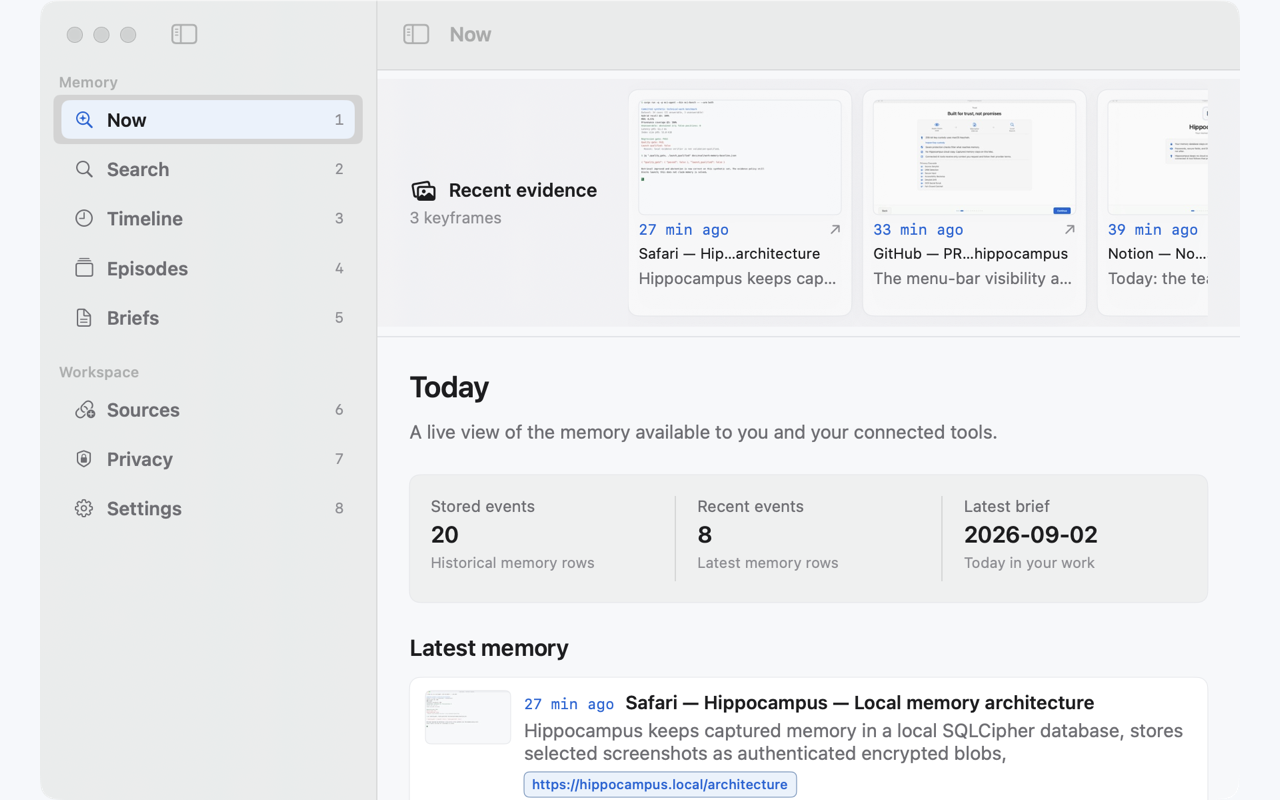
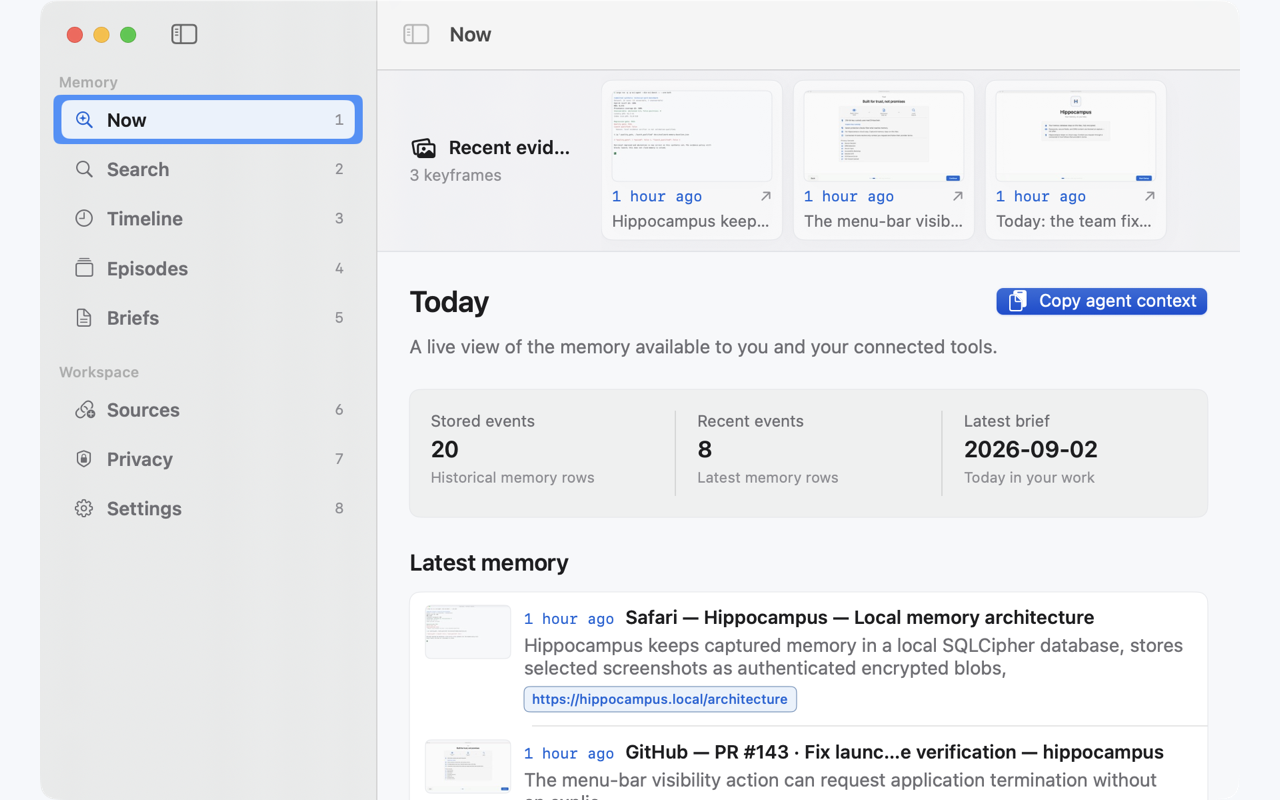
docs: publish verified recall thumbnail

diff --git a/docs/STATUS.md b/docs/STATUS.md
@@ -2,7 +2,7 @@
 
 _Audited on 2026-09-02._
 
-Audited code baseline: `24c5ace`
+Audited code baseline: `900fa68`
 
 This SHA is the immediate committed baseline before this status refresh. The
 release assembler requires it to be an ancestor of `HEAD` and no more than
@@ -201,7 +201,10 @@ truthfully scoped evidence product.
   previews, cleaned two-line evidence summaries, source/time context, and an
   inspectable detail popover instead of blurred passive thumbnails. It compacts
   to screenshot plus summary cards in short windows instead of expanding the
-  root view behind the title bar; fresh windows default to `1024x700`. The demo
+  root view behind the title bar; fresh windows default to `1024x700`. The Now
+  screen exposes the bounded, citation-preserving agent handoff as its stable
+  primary action, and the repository thumbnail is regenerated from that exact
+  packaged surface. The demo
   opts out of saved query/filter state and its automated screenshot path treats
   denied Screen Recording as an explicit nonfatal result rather than aborting
   or accepting a stale temporary image. Demo boot now hands the packaged app to
@@ -219,7 +222,7 @@ truthfully scoped evidence product.
   passes formatting, all-target workspace Clippy, every workspace test, and
   dependency audit. The shell and executable behavior lanes pass, including
   capture/privacy, release identity, model integrity, product truth, clean-home,
-  app launch, and visual contracts. The current verified matrix reports 39
+  app launch, and visual contracts. The current verified matrix reports 41
   passing lanes, four XCTest-only failures, and one unavailable SwiftFormat
   skip. The local gate now routes package tests through the repository's
   manifest-compatibility wrapper instead of failing before test compilation.
